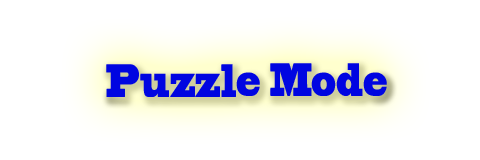
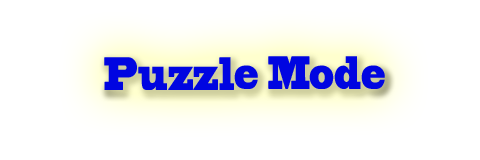
Updated game mode text

Changed region(s): [[0.1875, 0.3438, 0.8438, 0.6875]]

diff --git a/core/src/com/eecs493/bawk/HighScoreScreen.java b/core/src/com/eecs493/bawk/HighScoreScreen.java
@@ -82,6 +82,9 @@ public class HighScoreScreen implements Screen {
         else if(game.difficulty == BawkGame.Difficulty.HARD.getValue())
             difficultyMode.setTexture(new Texture("texthardmode.png"));
 
+        if(game.puzzleFlag)
+            difficultyMode.setTexture(new Texture("puzzlemodetext.png"));
+
         endMusic = Gdx.audio.newMusic(Gdx.files.internal("highscoremusic.mp3"));
 
         if (game.musicOnFlag) {

diff --git a/core/src/com/eecs493/bawk/Play.java b/core/src/com/eecs493/bawk/Play.java
@@ -168,6 +168,9 @@ public class Play implements Screen {
         else if(game.difficulty == BawkGame.Difficulty.HARD.getValue())
             difficultyMode.setTexture(new Texture("texthardmode.png"));
 
+        if(game.puzzleFlag)
+            difficultyMode.setTexture(new Texture("puzzlemodetext.png"));
+
         bawk = new Bawk();
         stage = new Stage();
         eggs = new Array<Array<Egg>>();
